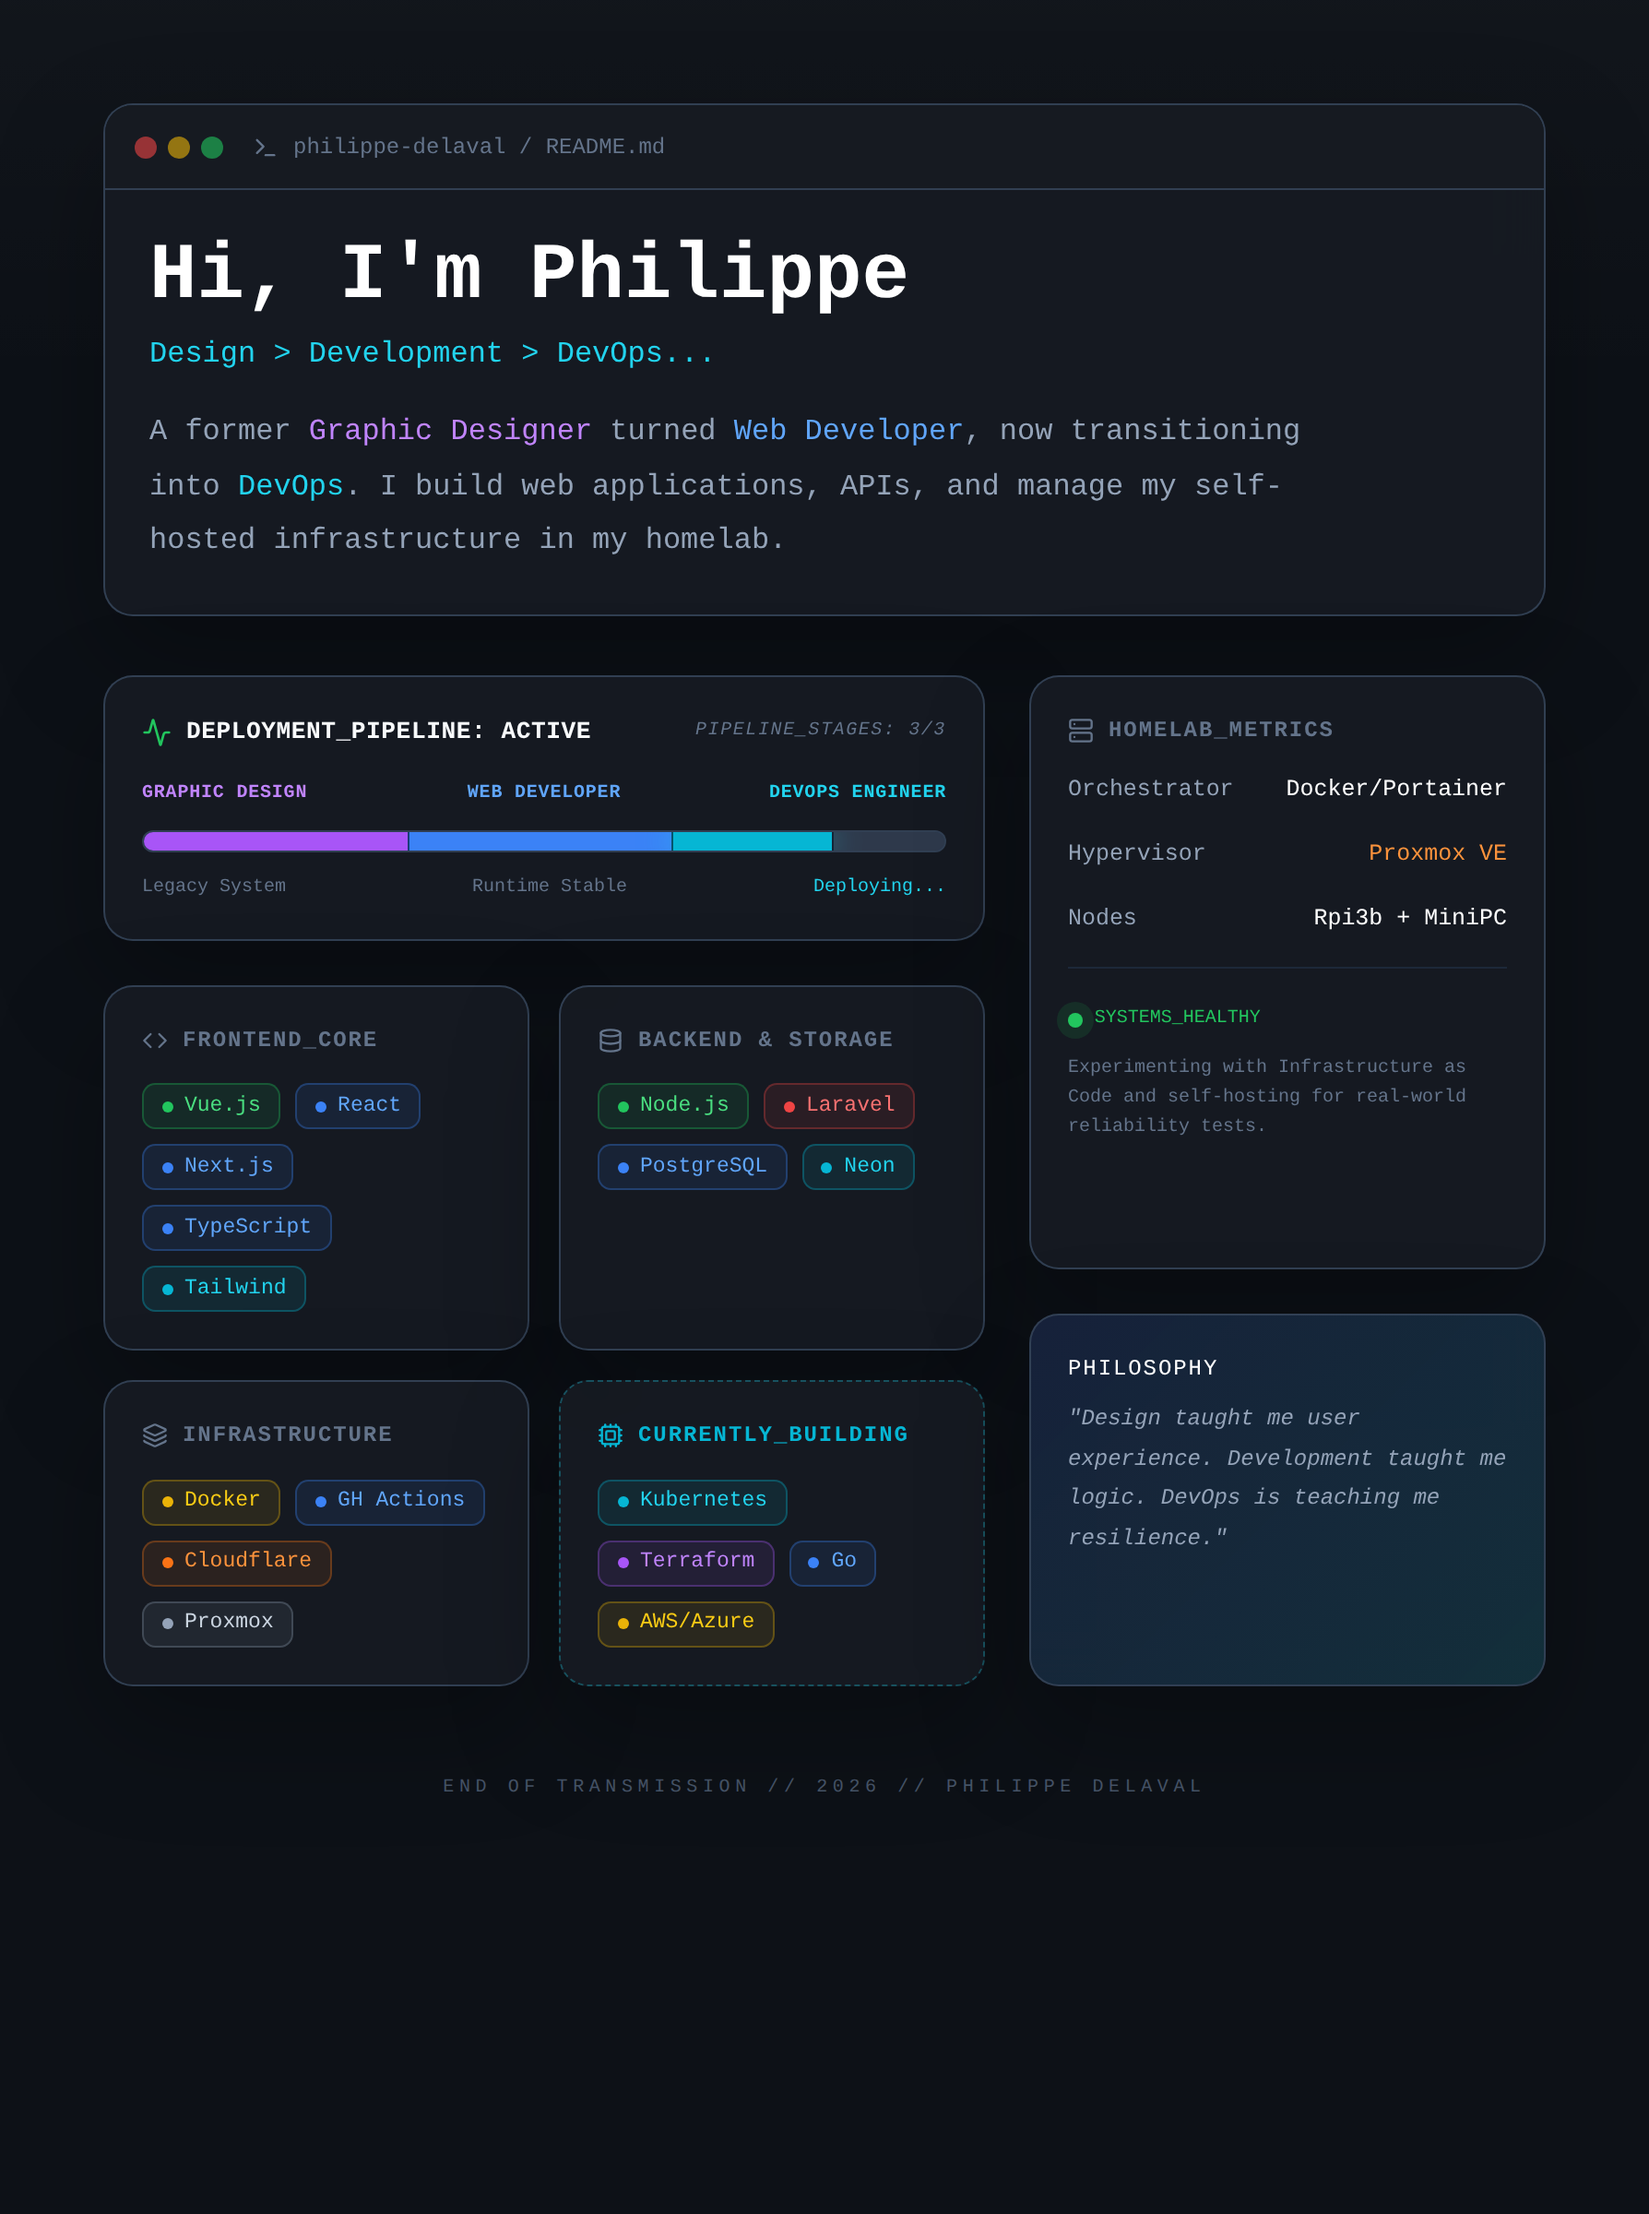
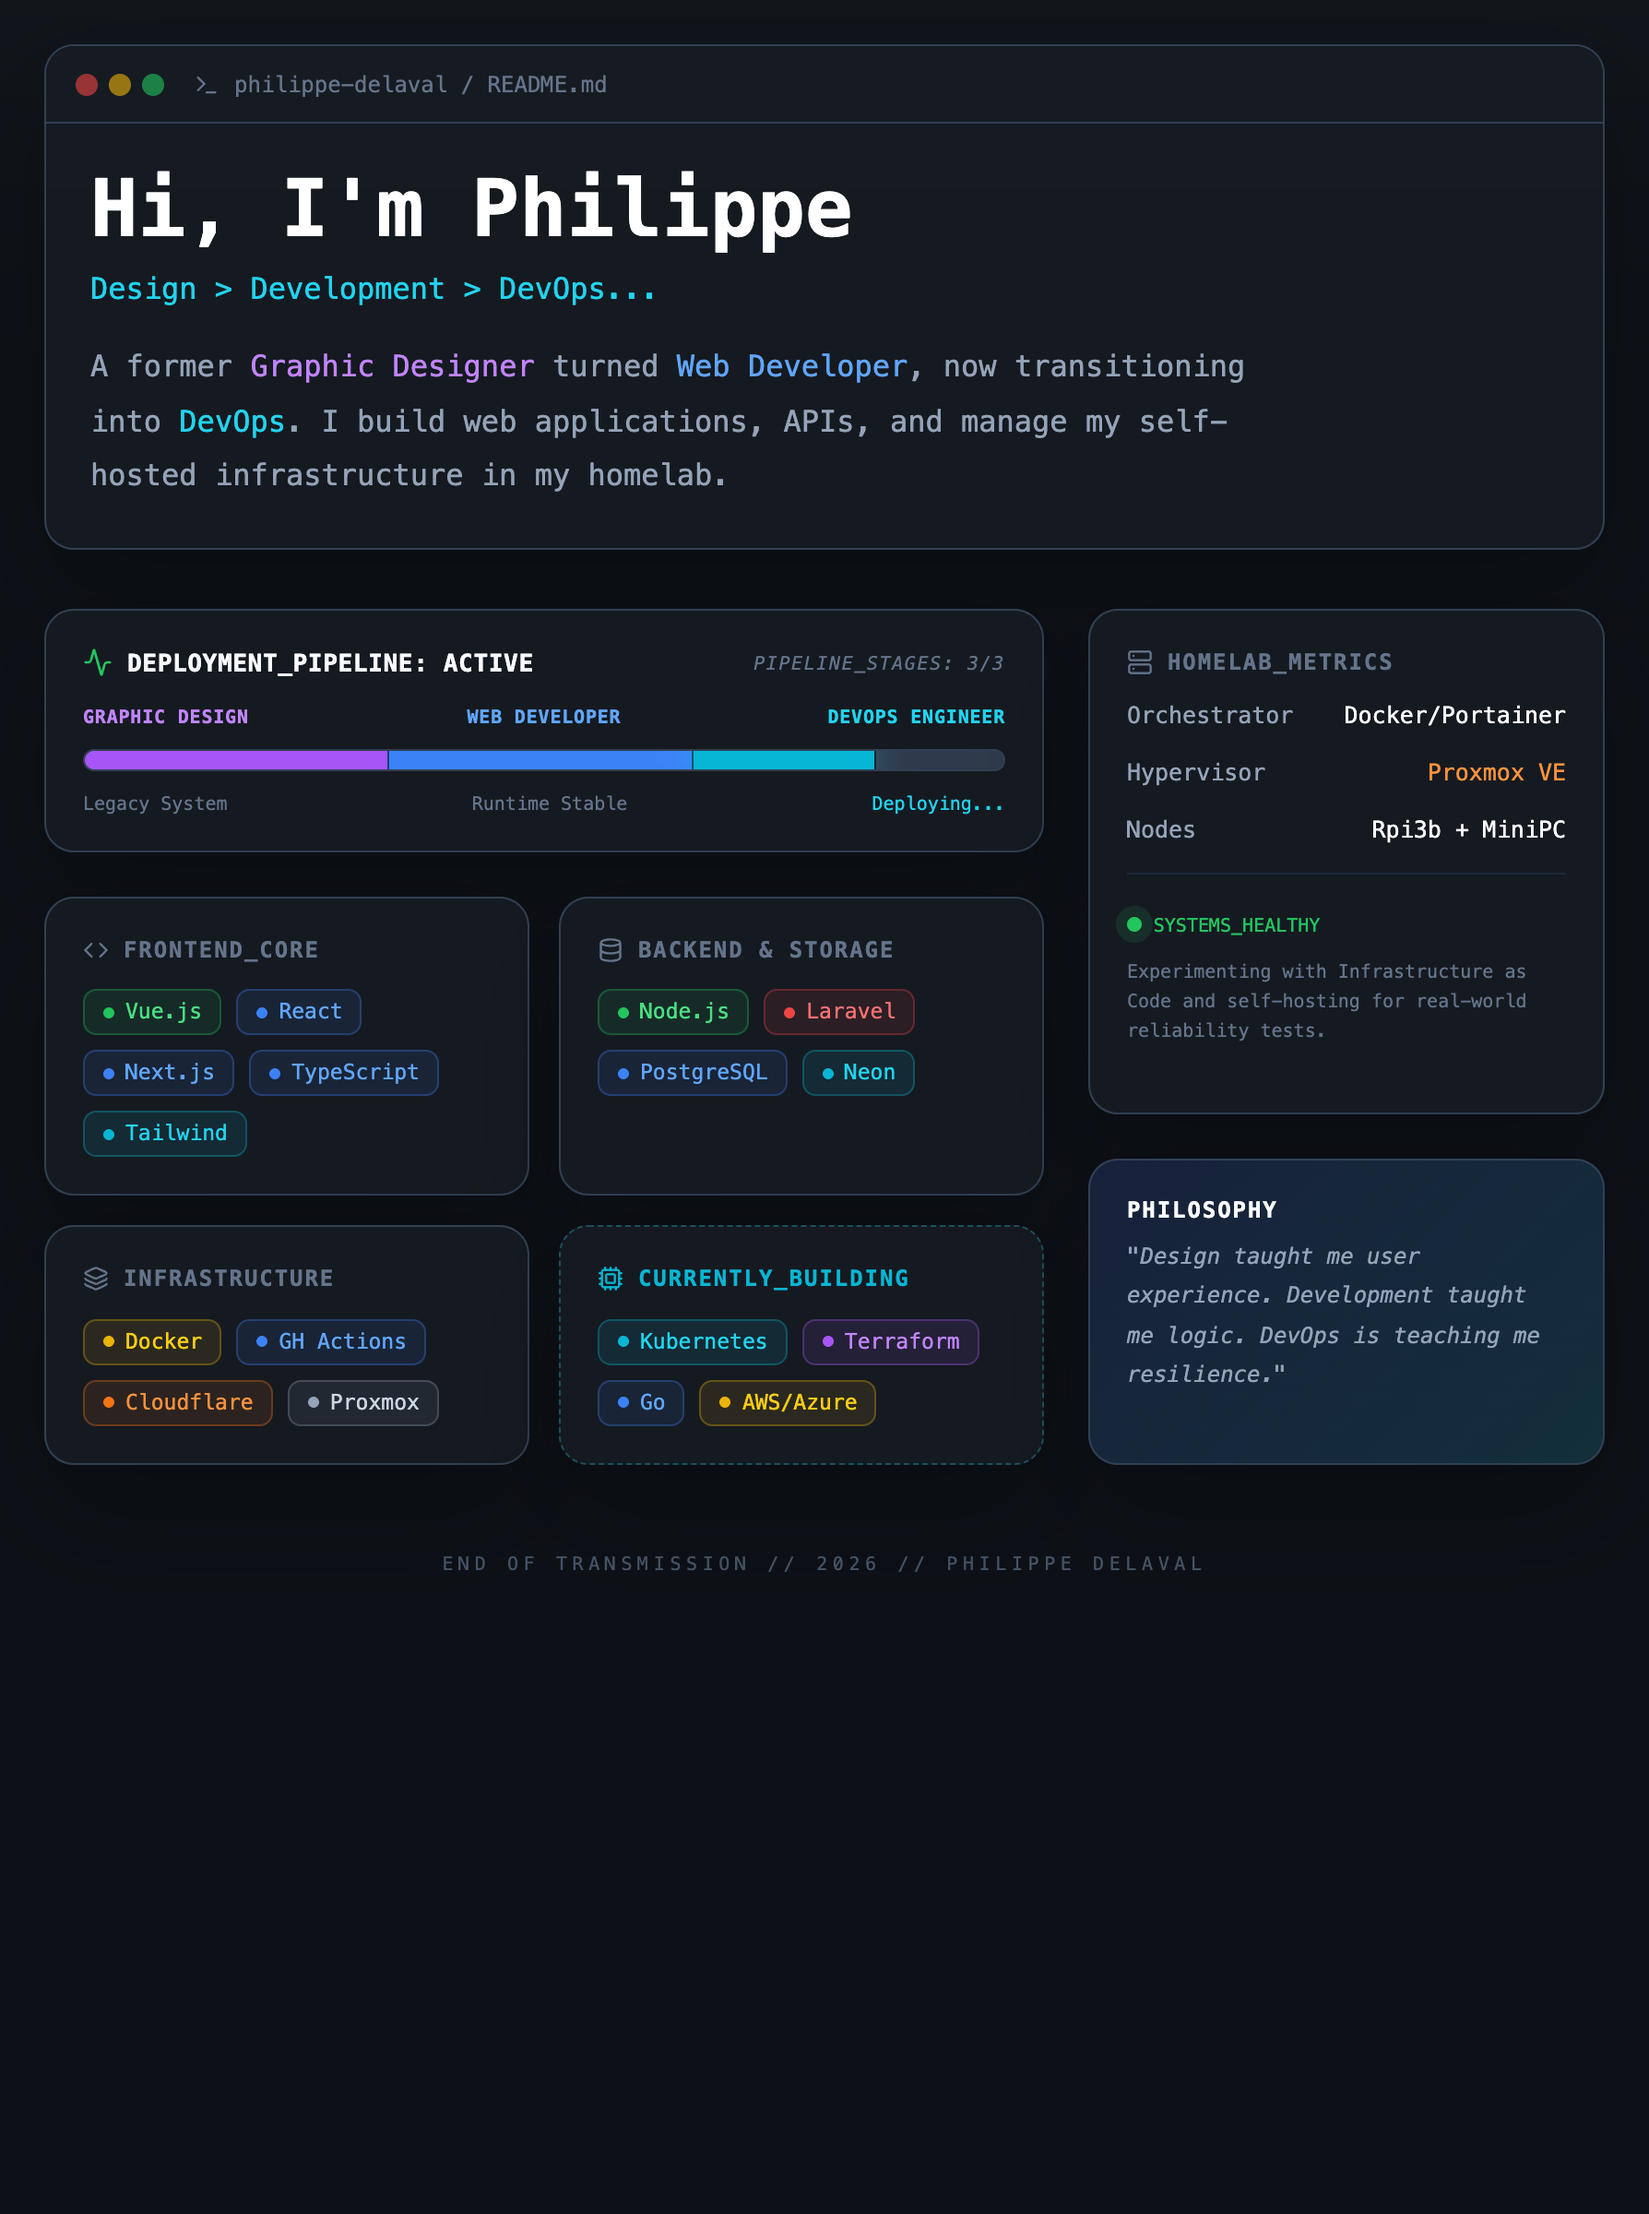
chore: clean styles and explicit capture mode

diff --git a/src/App.jsx b/src/App.jsx
@@ -284,8 +284,12 @@ function ProfileFooter() {
 // ---------------------------------------------------------------------------
 
 function App() {
+  const captureMode =
+    typeof window !== "undefined" &&
+    new URLSearchParams(window.location.search).get("capture") === "1";
+
   return (
-    <div className="profile-app capture-mode">
+    <div className={`profile-app${captureMode ? " capture-mode" : ""}`}>
       <div className="profile-shell">
         <TerminalHero />
 

diff --git a/src/index.css b/src/index.css
@@ -1,6 +1,3 @@
-@import "tailwindcss/theme.css";
-@import "tailwindcss/preflight.css";
-
 :root {
   color: #cbd5e1;
   background: #0d1117;
@@ -17,6 +14,12 @@ html,
 body,
 #root {
   min-height: 100%;
+}
+
+*,
+*::before,
+*::after {
+  box-sizing: border-box;
 }
 
 body {
@@ -520,7 +523,7 @@ svg {
   letter-spacing: 0.28em;
 }
 
-.capture-mode {
+.profile-app.capture-mode {
   padding: 0;
 }
 
